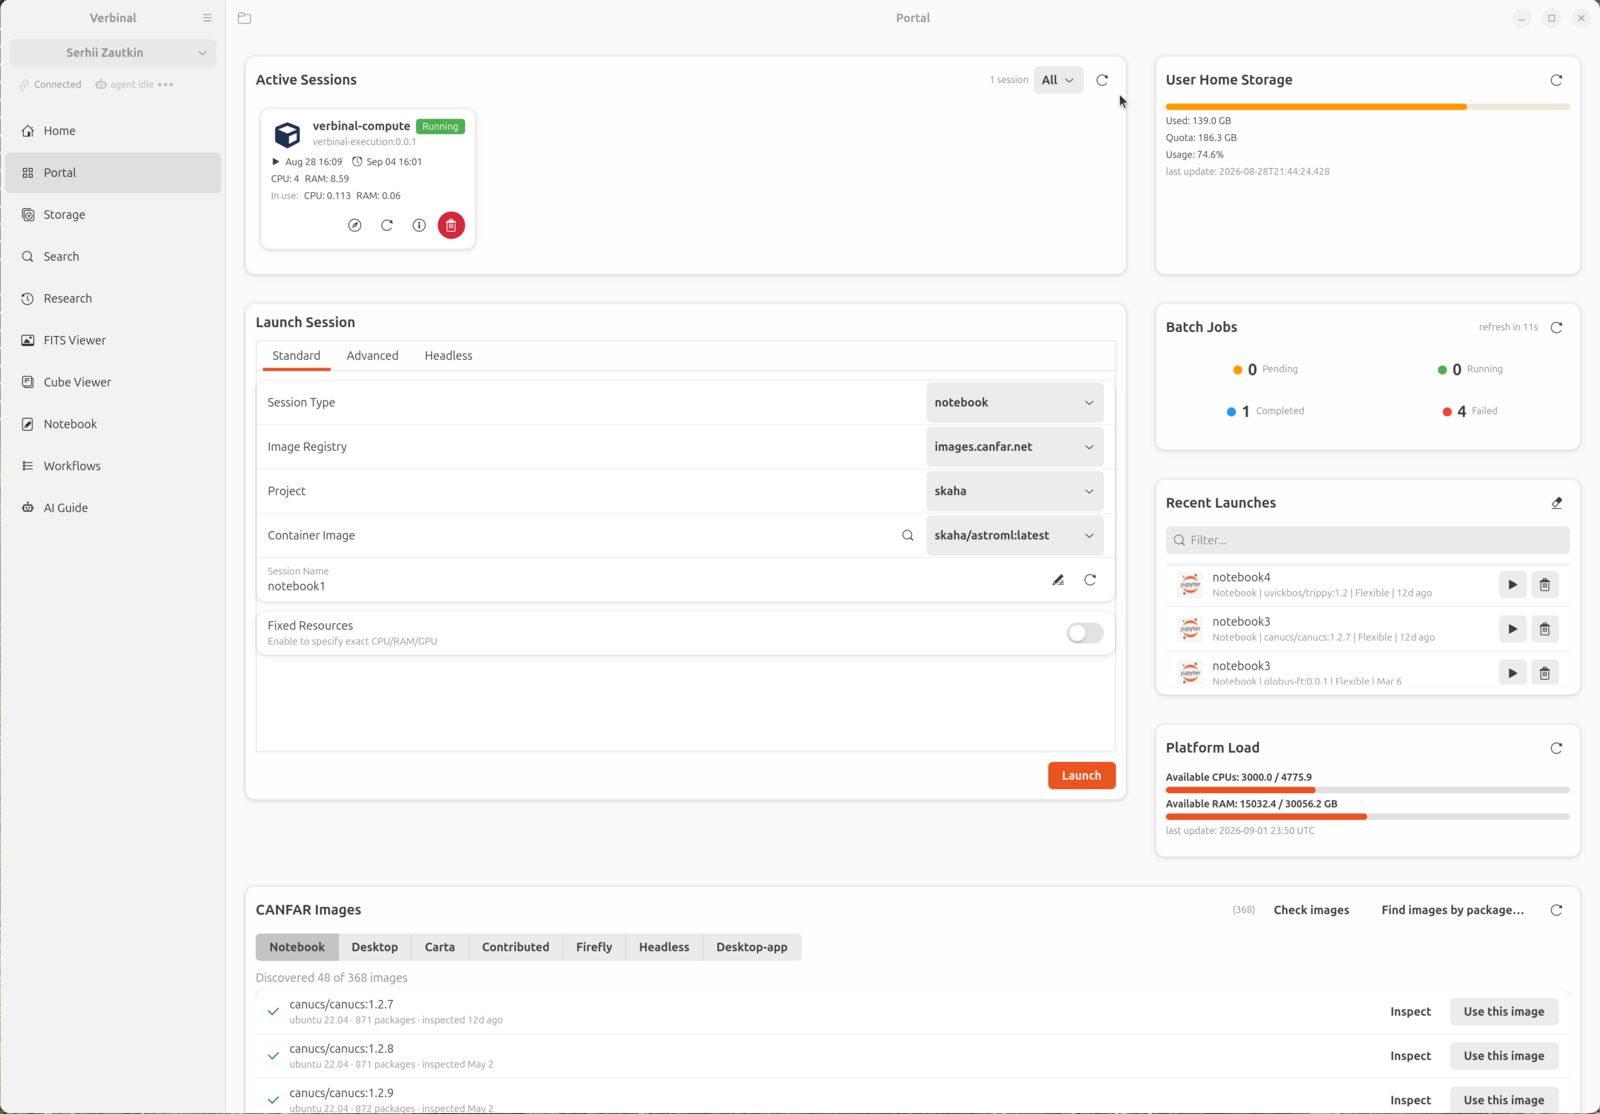
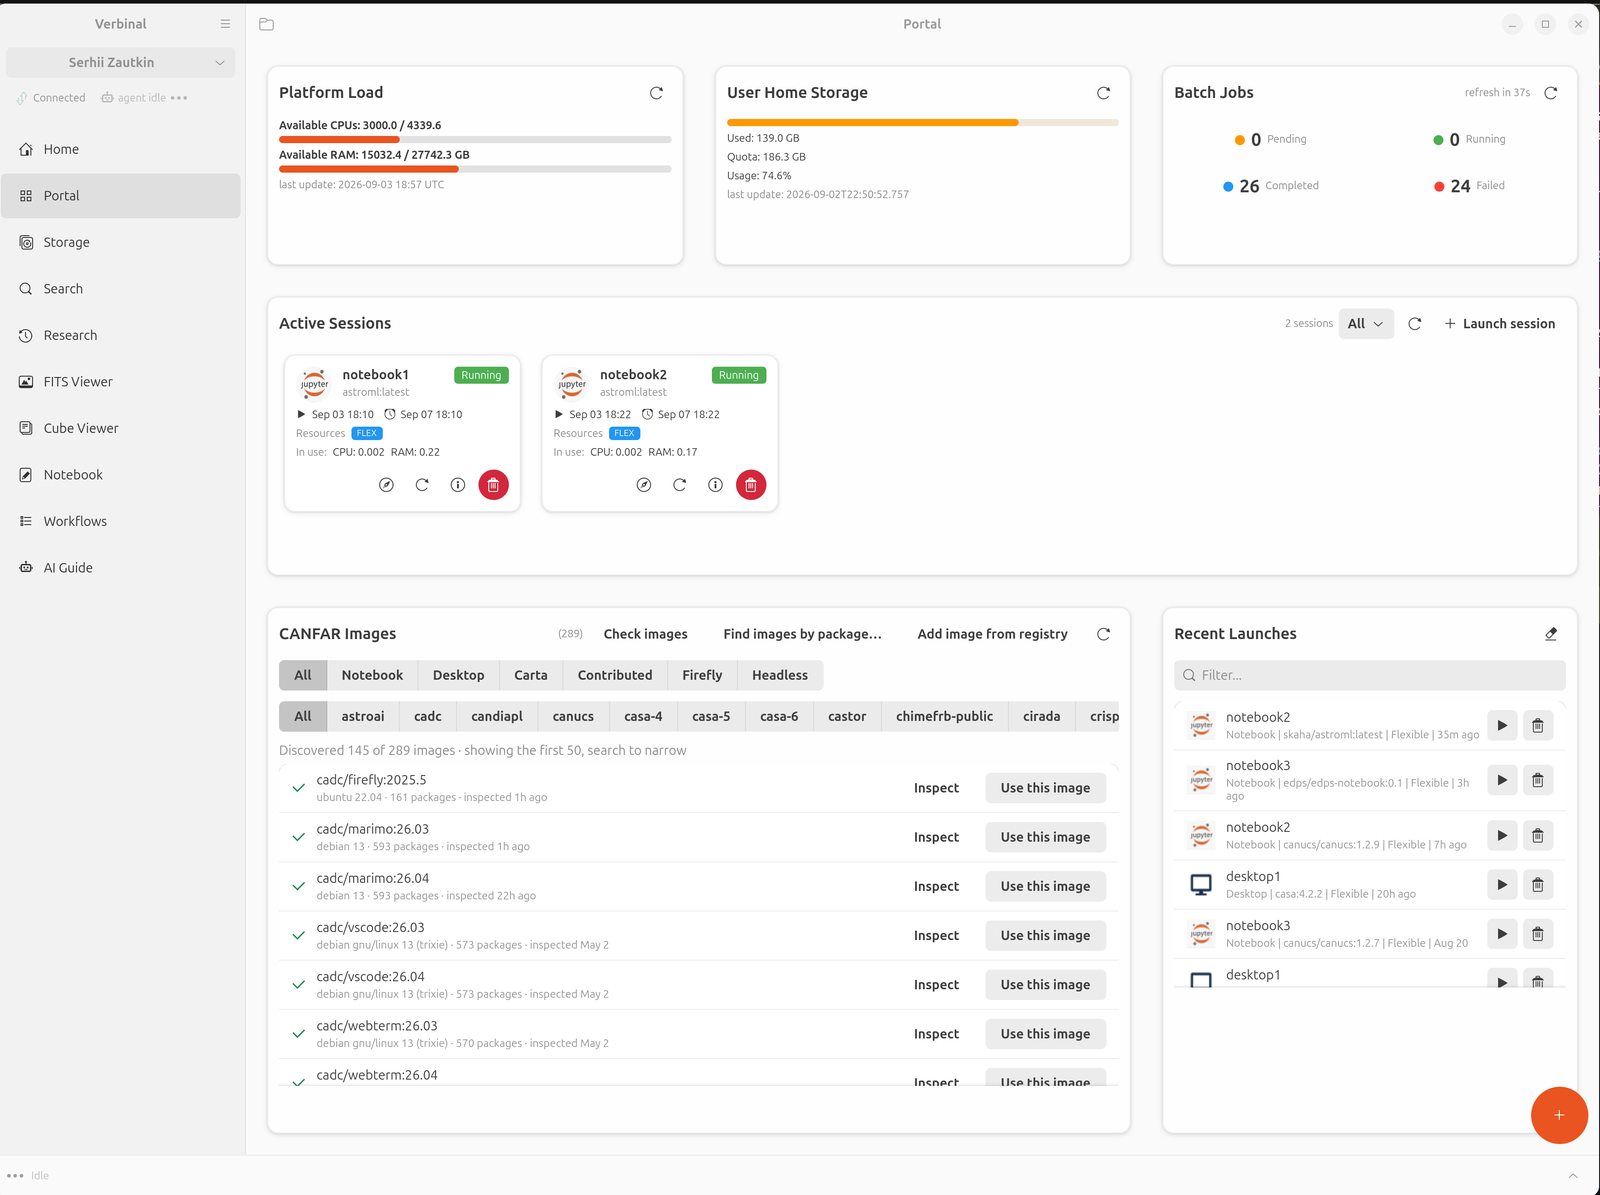
docs: the Portal screenshot shows the Portal as it is now
The old one predated this release: it showed the launch form occupying two
thirds of the page, no project filter, and no way to reach the registry.

The caption went with it. It promised "active sessions, launch form, storage
quota..." and the launch form is no longer on the page — it is behind a button,
which was the point of moving it.

Resized to 1600px to match the other four rather than committing the 3578px
original; the repo carries these, and nothing displays them above 820.

Claude-Session: https://claude.ai/code/session_01TzpRcL8EGaHa8WiaoF1HJU

diff --git a/README.md b/README.md
@@ -112,11 +112,13 @@ contributed session, it can run code on the platform on your behalf.
   <img src="docs/screenshots/home.png" alt="The Home page: one tile per area of the app, with the signed-in account and the agent's state at the top of the sidebar" width="820">
 </p>
 
-**Portal** — active sessions, launch form, storage quota, batch jobs, platform load
-and the CANFAR image catalogue on one page.
+**Portal** — platform load, your storage quota and batch jobs across the top;
+running sessions with what they are actually using; and the image catalogue,
+filtered by session type and by project. Launching is one button away rather than
+a form taking up the page.
 
 <p align="center">
-  <img src="docs/screenshots/portal.png" alt="The Portal page" width="820">
+  <img src="docs/screenshots/portal.png" alt="The Portal page: platform load, storage quota and batch job counts across the top, two running notebook sessions with their resource use, and the CANFAR image catalogue filtered by session type and project, beside a list of recent launches" width="820">
 </p>
 
 **Find an image by package** — search 368 container images by what is installed in
